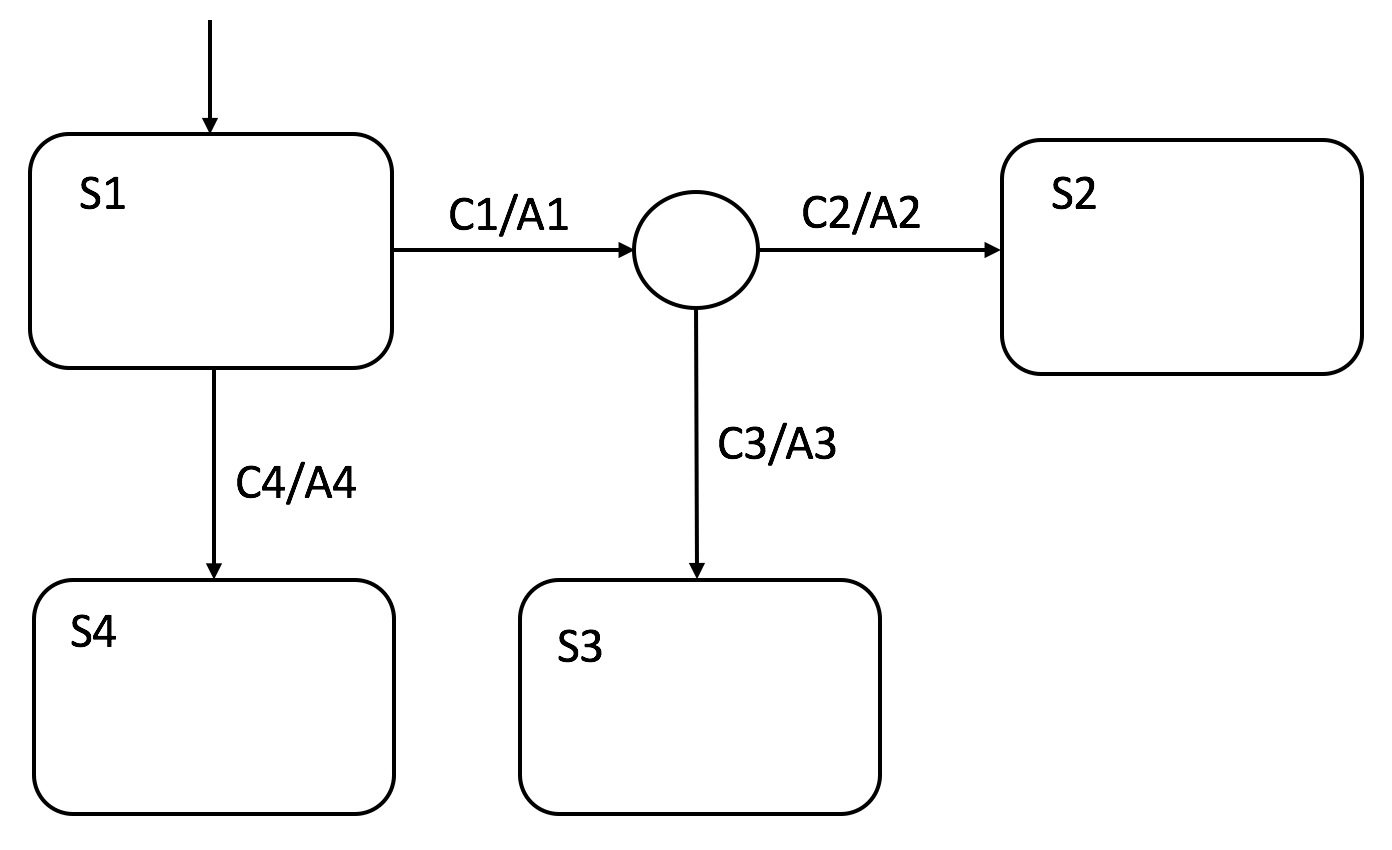
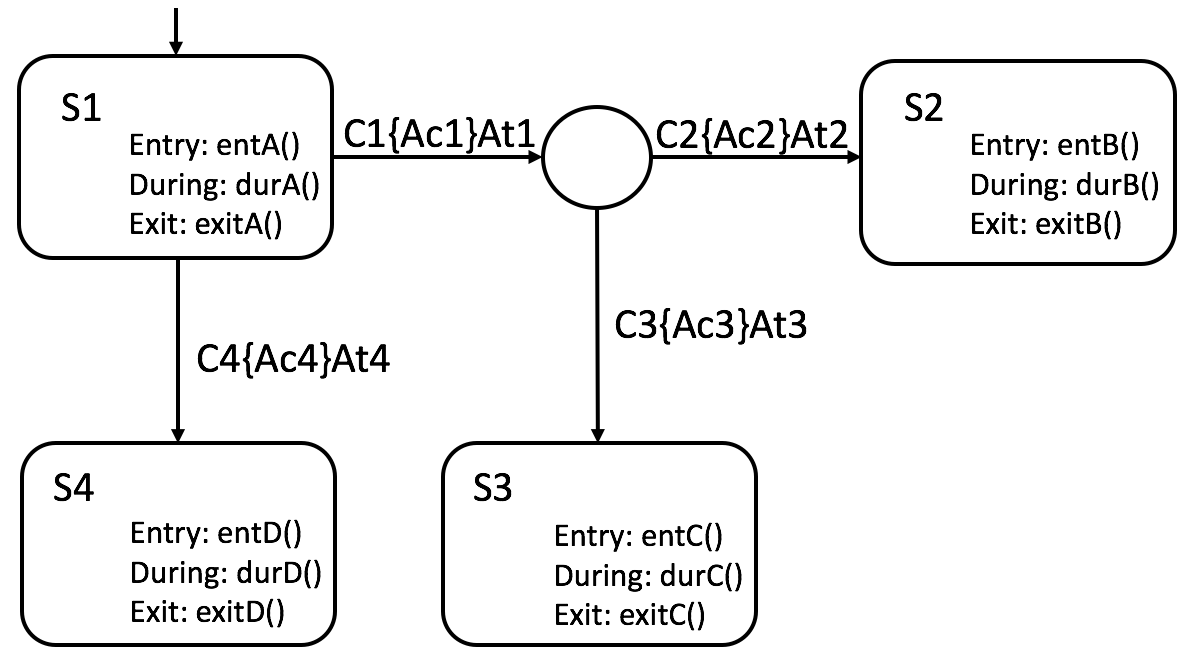
More documentation

Changed region(s): [[0.0, 0.0303, 0.9941, 1.0], [0.466, 0.1515, 0.5281, 0.1818]]

diff --git a/docs/json2lustre.tex b/docs/json2lustre.tex
@@ -558,37 +558,55 @@ The junction transits to decrease, stable, or increase state depending on the co
 Stateflow is translated into Lustre automaton based on its semantics. 
 
 \subsubsection{Translation of States}
-There are two types of states: exclusive and parallel. 
+Staeflow has two types of states: exclusive and parallel. 
 State can be nested in another state.
 Each state has nine different actions i.e., Entry, During, Exit, Bind, On, OnAfter, OnBefore, OnAt, and OnEvery. 
-Among those, the translation currently only supports Entry, During and Exit actions and does not support event. 
+Among those, the translation currently only supports Entry, During and Exit actions. 
 Stateflow State is translated into an automaton state in Lustre with its during actions as its body equations.
 An initialization state is created with the Entry actions of the first state of the system as its body equations. 
 A center point state is created as the initial state to control the transitions. 
-Transitions in Stateflow charts are encoded as strong transitions in Lustre using the statement ``\textsf{unless} condExpr \textsf{restart} stateName".
+Transitions in Stateflow charts are encoded as strong transitions in Lustre ``\textsf{unless} condExpr \textsf{restart} stateName".
+
 We create a state id for each original state of the system with 0 being the id for the initialization state.
 We currently support exclusive states with no nested states.
-For each simple transition \textsf{src\_to\_dest} from a state \textsf{src} to another state \textsf{dest} with a condition \textsf{condExpr} and condition actions \textsf{condActions}, we create a Lustre automaton state with condition actions \textsf{condActions}, the Exit actions of \textsf{src} and the Entry actions of \textsf{dest} being its body equations.
+For each simple transition \textsf{src\_to\_dest} from a state \textsf{src} to another state \textsf{dest} with a condition \textsf{condExpr} and condition actions \textsf{condActions}, we create a Lustre automaton state with condition actions \textsf{condActions}, transition actions , the Exit actions of \textsf{src} and the Entry actions of \textsf{dest} being its body equations.
 At each Lustre automaton state, we set the next active state id.
 For example, at the state \textsf{src\_to\_dest}, we would set the next active state id to the id of the \textsf{dest} state.
+The execution order of transitions is maintained in the strong transitions by following the 12 o'clock rule in Stateflow chart in the initial Lustre automaton state.
+That is the transition at 12 o'clock is evaluated first and the rest is evaluated from top to bottom and from left to right. 
+Therefore, we put the transition condition of the transition at 12 o'clock first and the rest is listed counter-clockwise. 
 
 \subsubsection{Translation of Junctions}
 
 \begin{figure}[h]
 \begin{center}
-  \includegraphics[scale=0.22]{figures/sf1} 
-    \includegraphics[scale=0.2]{figures/sf2}    
+  \includegraphics[scale=0.18]{figures/sf1} 
+    \includegraphics[scale=0.15]{figures/sf2}    
 \end{center}  
   \caption{Conversion from stateflow chart with junctions to another one without junctions}
   \label{sf1}
 \end{figure}
 
-Junctions are compressed as simple transitions to states based on its semantics. 
+\begin{figure}[h]
+\begin{center}
+  \includegraphics[scale=0.3]{figures/automaton} 
+\end{center}  
+  \caption{The Lustre automaton for the stateflow in Figure \ref{sf1}}
+  \label{automaton}
+\end{figure}
+
+A junction is a decision point for transitions. 
+Junctions are compressed to simple transitions to states based on its semantics. 
 A simple transition is defined as a transition from a state to another state based on some condition. 
 Figure~\ref{sf1} shows a conversion from a stateflow chart with junctions to an equivalent one without junctions.
-
-
-
+Compression of junctions follows the evaluation rule of junctions in stateflow charts.
+Consider the example in Figure~\ref{sf1}, there are 4 states and 1 junction in the original stateflow chart on the left, where S1 is the start state.
+At each system clock tick, the system starts evaluating C1 and C2, if C1 and C2 are both valid, it execute S1's exit actions, Ac1, Ac2, At1, At2 and entB() and set the next active state id to the id of S2. 
+If C2 is valid and C3 is invalid, the system execute S1's exit actions, Ac1, Ac3, At1, At3 and entC() and set the next active state id to the id of S3.
+If C2 and C3 are both invalid and C1 is valid, the system execute Ac1 and set the next active state id to the id of S1.
+If C1 is invalid and C4 is valid, the system execute S1's exit actions, Ac4, At4, and entD().  
+Otherwise, it will stay in S1 and execute its During actions. 
+The translation for the stateflow in Figure~\ref{sf1} is shown in Figure~\ref{automaton}.
 \subsection{Mapping Information}
 
 The translation yields a JSON file for mapping purpose between the input Simulink model and the output Lustre program. 
